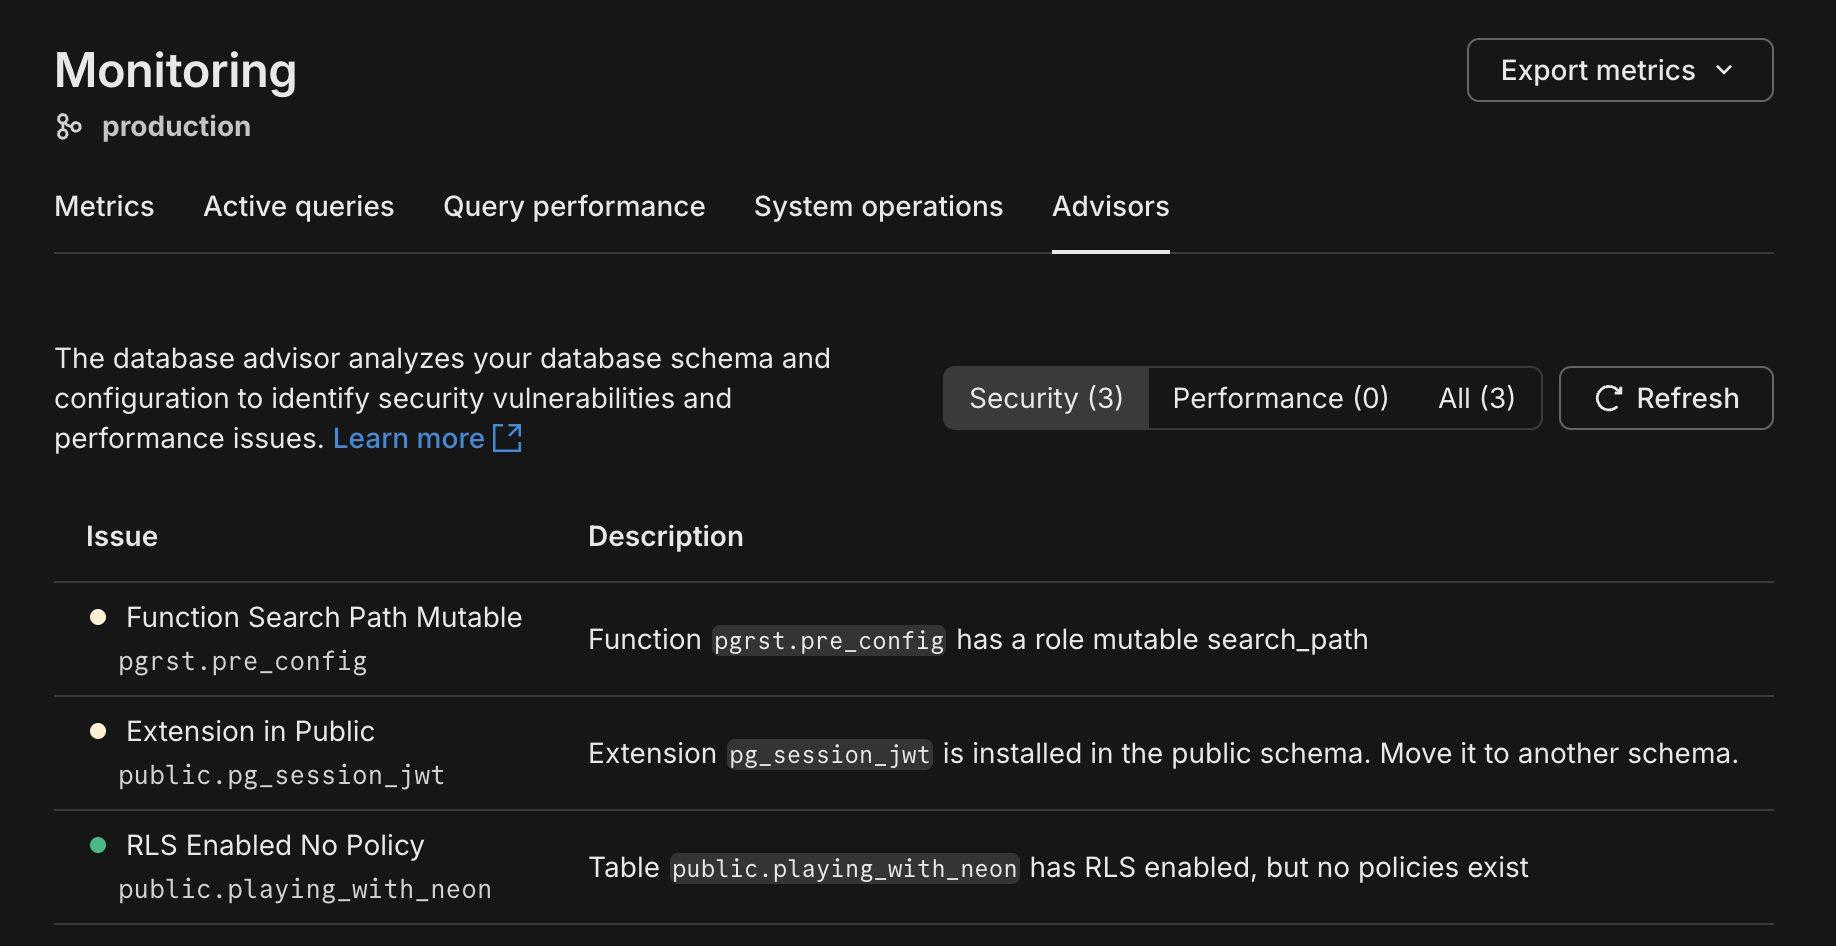
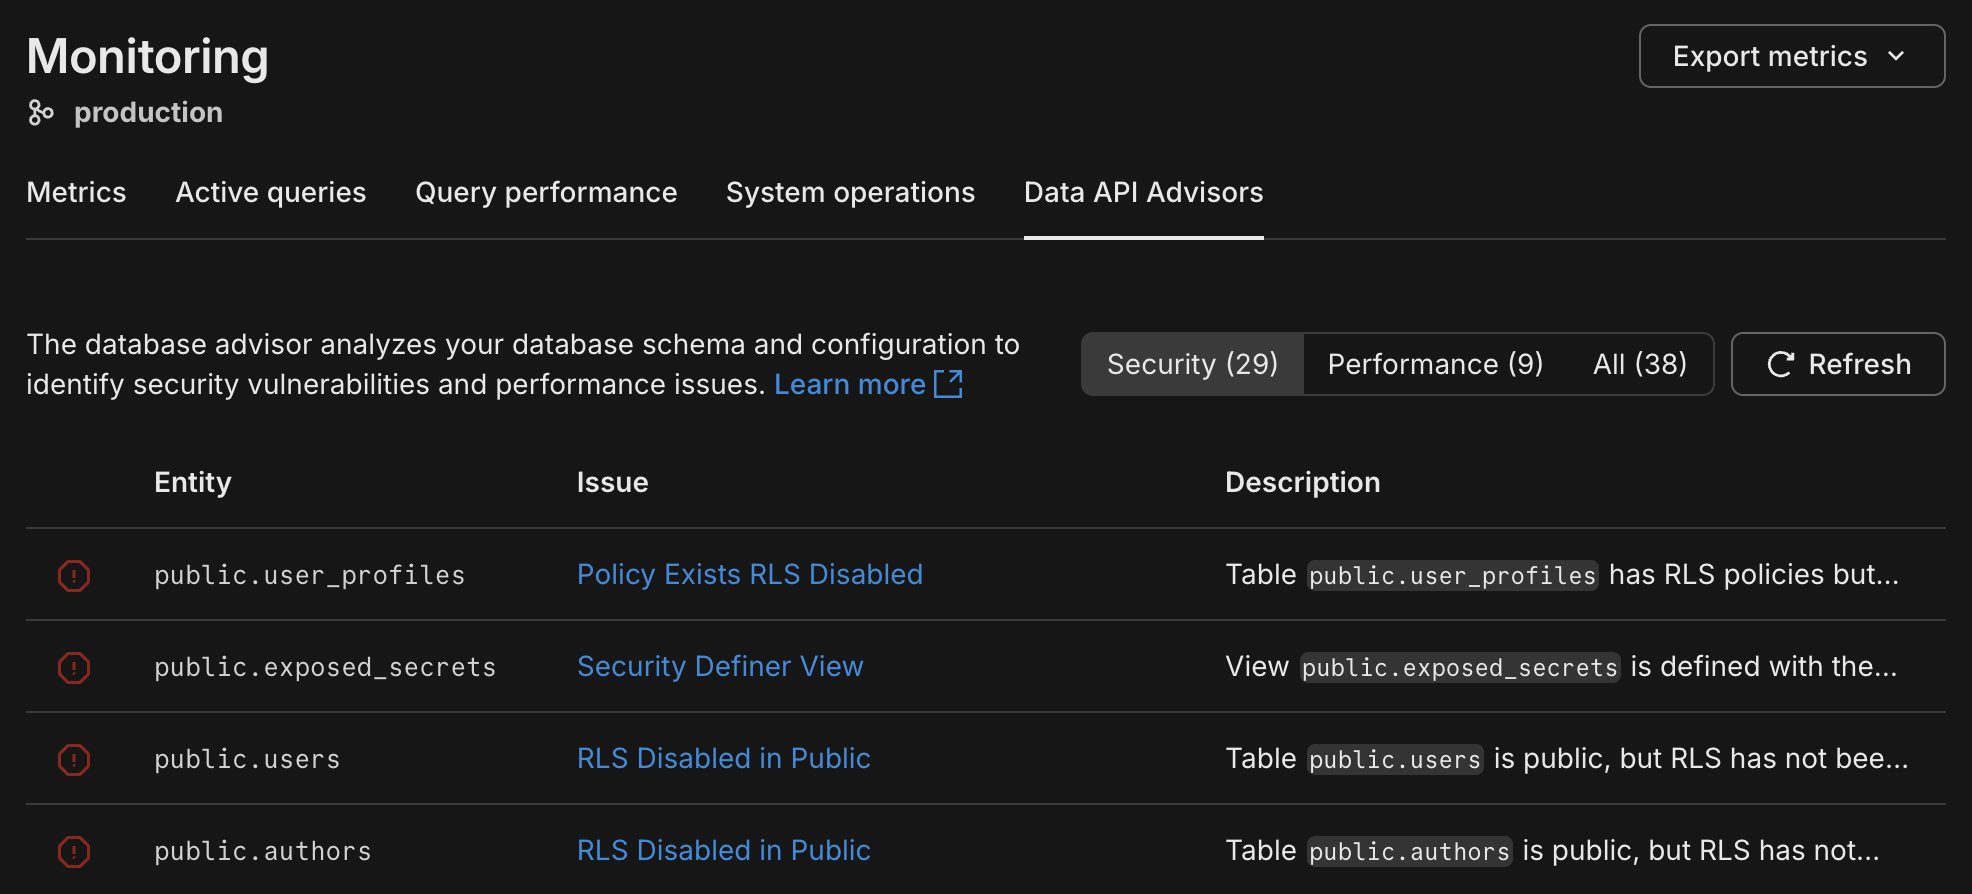
docs: update data api advisors naming and update screenshots

diff --git a/content/docs/data-api/database-advisor.md b/content/docs/data-api/database-advisor.md
@@ -1,32 +1,34 @@
 ---
-title: Data API Advisor
+title: Data API Advisors
 subtitle: Identify security and performance issues in your API-exposed database
 enableTableOfContents: true
-updatedOn: '2026-02-16T00:00:00.000Z'
+updatedOn: '2026-02-25T00:00:00.000Z'
 ---
 
-The Data API Advisor analyzes your database schema and configuration to detect security and performance issues for tables and objects exposed by the [Data API](/docs/data-api/overview) feature. It runs a set of checks against your database and reports issues with severity levels and recommended fixes.
+The Data API Advisors analyze your database schema and configuration to detect security and performance issues for tables and objects exposed by the [Data API](/docs/data-api/overview) feature. They run a set of checks against your database and report issues with severity levels and recommended fixes.
 
-Because the Data API exposes your database schema directly over HTTP, security misconfigurations that would normally be hidden behind an application server become directly exploitable. Missing RLS policies and overly permissive views are especially dangerous in this context. The advisor also checks for common performance issues like unindexed foreign keys and table bloat. It helps you catch both types of issues before they reach production.
+Because the Data API exposes your database schema directly over HTTP, security misconfigurations that would normally be hidden behind an application server become directly exploitable. Missing RLS policies and overly permissive views are especially dangerous in this context. The advisors also check for common performance issues like unindexed foreign keys and table bloat, helping you catch issues before they reach production.
 
 ## Prerequisites
 
-- The [Data API](/docs/data-api/get-started) must be enabled on your project.
 - Your compute must be active (not suspended) when running a scan.
+- If the Data API is not yet enabled, the Advisors screen will show a "Data API not enabled" message. Enable the [Data API](/docs/data-api/get-started) to run scans.
 
 ## How to access
 
 ### Neon Console
 
-In the Neon Console, navigate to **Monitoring > Advisors** for your project. The advisor scans your database and displays any issues found, grouped by category.
+In the Neon Console, go to **Monitoring > Data API Advisors** for your branch. The advisor scans your database and displays any issues found, grouped by category.
 
 ![Data API advisor](/docs/data-api/data-api-database-advisor-monitor.png)
 
-Each issue includes a severity level, a description, and a recommended fix. You can use the **Resolve** button on any issue to get an AI-generated analysis that explains the risk, provides SQL to fix it, and offers additional recommendations tailored to your specific schema. This is especially useful for complex issues where the fix depends on your application's access patterns.
+Each issue includes a severity level, a description, and a recommended fix. Clicking an issue opens a detail view with an **Ask Assistant** option that analyzes the risk and suggests a specific fix (such as a SQL query tailored to your schema), along with a **Read our docs** link for general guidance on that type of issue.
+
+![Data API advisor solution](/docs/data-api/data-api-database-advisor-resolve.png)
 
 ### API
 
-You can also retrieve advisor issues via the Neon API:
+You can also retrieve advisor issues via the [Neon API](https://api-docs.neon.tech/reference/getprojectadvisorsecurityissues):
 
 ```
 GET /projects/{project_id}/advisors
